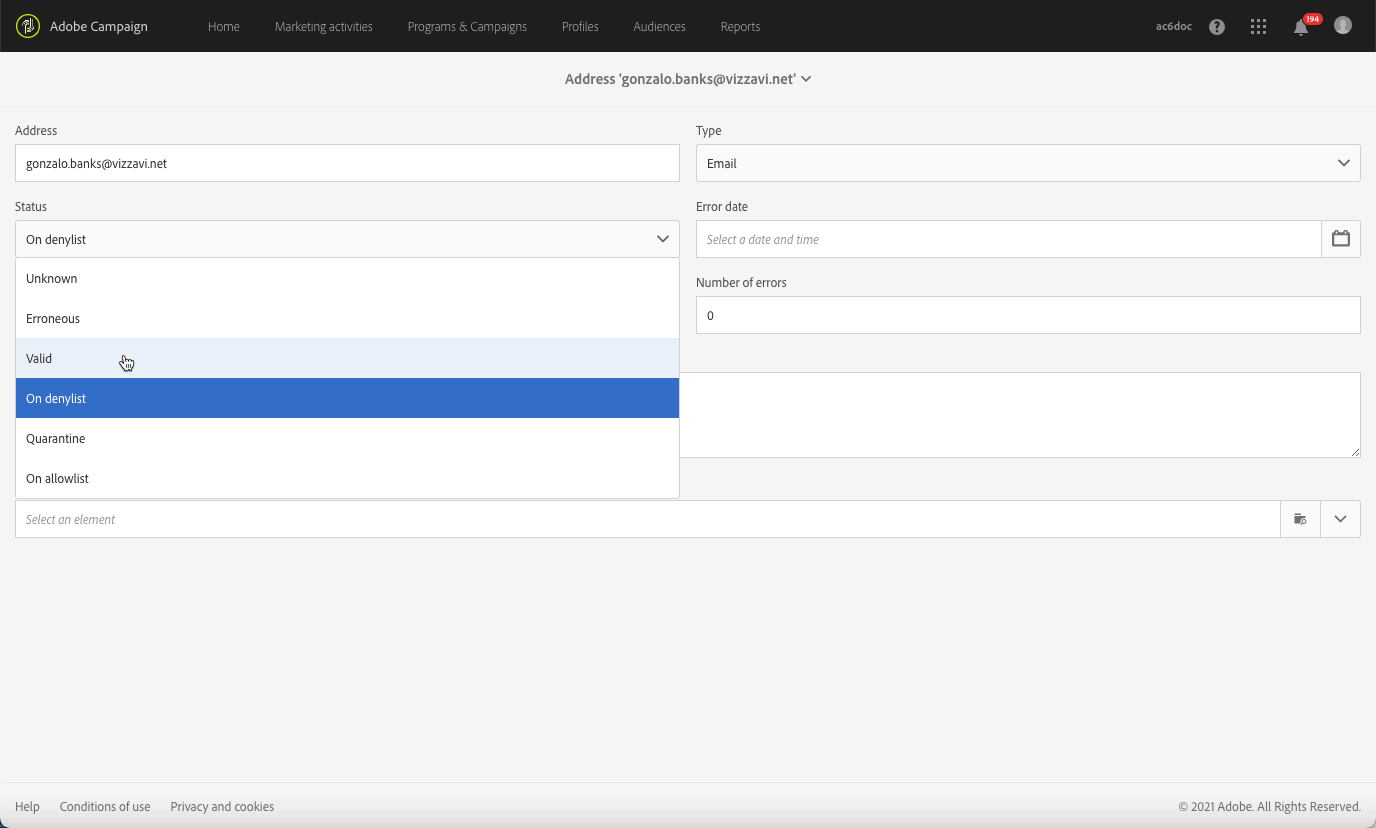
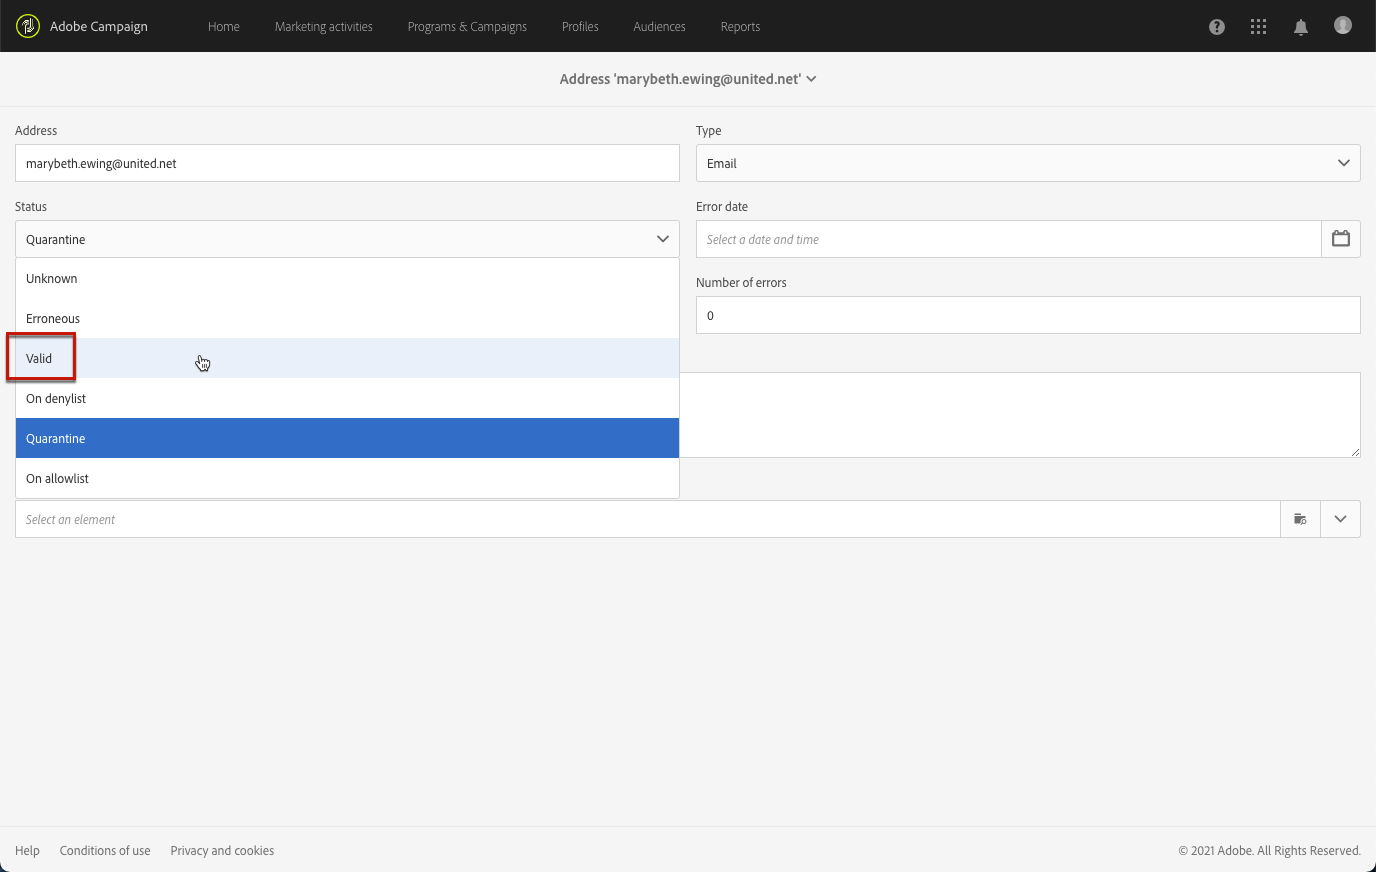
quarantine/denylist clarifications

diff --git a/help/sending/using/understanding-quarantine-management.md b/help/sending/using/understanding-quarantine-management.md
@@ -32,15 +32,17 @@ For more on best practices to secure and optimize your deliveries, refer to [thi
 
 ### Quarantine vs Denylist {#quarantine-vs-denylist}
 
-**Quarantine** applies only to an address, not the profile itself. It means that, if two profiles have the same email address, they will both be affected if the address is quarantined.
+Quarantine and denylist do not apply to the same object:
 
-Likewise, a profile whose email address is quarantined could update his profile and enter a new address, and could then be targeted by delivery actions again.
+* **Quarantine** applies only to an **address** (or phone number, etc.), not to the profile itself. For example, a profile whose email address is quarantined could update his profile and enter a new address, and could then be targeted by delivery actions again. Likewise, if two profiles happen to have the same phone number, they will both be affected if the number is quarantined.
 
-Being on the **Denylist** (resulting from a user qualifying your email as a spam), on the other hand, will result in the profile no longer being targeted by any delivery, for example after an unsubscription (opt-out). For more on the denylist process, refer to [About opt-in and opt-out in Campaign](../../audiences/using/about-opt-in-and-opt-out-in-campaign.md).
+* Being on the **denylist**, on the other hand, will result in the **profile** no longer being targeted by any delivery, for example after an unsubscription (opt-out), for a given channel. For example, if a profile on the denylist for the email channel has two email addresses, both addresses will be excluded from delivery. For more on the denylist process, refer to [About opt-in and opt-out in Campaign](../../audiences/using/about-opt-in-and-opt-out-in-campaign.md).
 
 >[!NOTE]
 >
->When a user replies to an SMS message with a keyword such as "STOP" in order to opt-out from SMS deliveries, his profile is not on denylist like in the email opt-out process. The profile phone number is sent to quarantine with the **[!UICONTROL On denylist]** status. This status refers to the phone number only, the profile is not on denylist so that the user continues receiving email messages. For more on this, refer to [this section](../../channels/using/managing-incoming-sms.md#managing-stop-sms).
+>Quarantine includes an **On denylist** status, which applies when recipients report your message as spam or reply to an SMS message with a keyword such as "STOP". In that case, the profile's involved address or phone number is sent to quarantine with the **[!UICONTROL On denylist]** status. For more on managing STOP SMS messages, refer to [this section](../../channels/using/managing-incoming-sms.md#managing-stop-sms).
+ 
+<!--When a user replies to an SMS message with a keyword such as "STOP" in order to opt-out from SMS deliveries, his profile is not added to the denylist like in the email opt-out process. Instead, the profile's phone number is sent to quarantine with the **[!UICONTROL On denylist]** status. This status refers to the phone number only, meaning that the profile will continue receiving email messages.<!-- Also, if the profile has another phone number, he can still receive SMS messages on the other number. For more on this, refer to [this section](../../channels/using/managing-incoming-sms.md#managing-stop-sms).-->
 
 ## Identifying quarantined addresses {#identifying-quarantined-addresses}
 
@@ -60,29 +62,43 @@ Quarantined addresses for a specific delivery are listed during the delivery pre
 
 ### Identifying quarantined addresses for the entire platform {#identifying-quarantined-addresses-for-the-entire-platform}
 
-Administrators can list the addresses in quarantine for the entire platform from the **[!UICONTROL Administration > Channels > Quarantines > Addresses]** menu.
+Administrators can access the detailed list of the email addresses in quarantine for the entire platform from the **[!UICONTROL Administration > Channels > Quarantines > Addresses]** menu.
 
+<!-->
 >[!NOTE]
 >
->This menu lists quarantined elements for **email**, **SMS** and **Push notification** channels.
+>This menu lists quarantined elements for **Email**, **SMS** and **Push notification** channels.
+-->
 
 ![](assets/quarantines1.png)
 
 >[!NOTE]
 >
->The increase in number of quarantines is a normal effect, related to the "wear and tear" of the database. For example, if the lifetime of an email address is considered to be three years and the recipient table increases by 50% each year, the increase in quarantines can be calculated as follows: End of Year 1: (1&#42;0.33)/(1+0.5)=22%. End of Year 2: ((1.22&#42;0.33)+0.33)/(1.5+0.75)=32.5%.
+>The increase in the number of quarantines is a normal effect, related to the "wear and tear" of the database. For example, if the lifetime of an email address is considered to be three years and the recipient table increases by 50% each year, the increase in quarantines can be calculated as follows: End of Year 1: (1&#42;0.33)/(1+0.5)=22%. End of Year 2: ((1.22&#42;0.33)+0.33)/(1.5+0.75)=32.5%.
+
+Filters are available to help you browse through the list. You can filter on the address, status and channel.
+
+You can edit or [delete](#removing-a-quarantined-address) each address, as well as create new ones.
 
 ### Removing a quarantined address {#removing-a-quarantined-address}
 
 If needed, you can manually remove an address from the quarantine list. In addition to this, addresses that match specific conditions are automatically deleted from the quarantine list by the **[!UICONTROL Database cleanup]** workflow. For more on the technical workflows, see [this section](../../administration/using/technical-workflows.md#list-of-technical-workflows).
 
-To manually remove an address from the quarantine list:
+To manually remove an address from the quarantine list, perform one of the actions below.
 
-* Select the address from the **[!UICONTROL Administration > Channels > Quarantines > Addresses]** menu and change its **[!UICONTROL Status]** to **[!UICONTROL Valid]**.
+>[!IMPORTANT]
+>
+>Manually deleting an email address from quarantine means that you will start again delivering to this address. Consequently, this can have severe impacts on your deliverability and IP reputation, which could eventually lead to your IP address or sending domain being blocked. Proceed with extra care when considering removing any address from quarantine. In case of any doubt, contact a deliverability expert.
+
+* Select the address from the **[!UICONTROL Administration > Channels > Quarantines > Addresses]** list and select **[!UICONTROL Delete element]**.
+
+  ![](assets/quarantine-delete-address.png)
+
+* Select an address and change its **[!UICONTROL Status]** to **[!UICONTROL Valid]**.
 
   ![](assets/quarantine-valid-status.png)
 
-* You can also change its status to **[!UICONTROL On allowlist]**. In this case, the address remains on the quarantine list, but it will be systematically targeted, even if an error is encountered.
+  You can also change its status to **[!UICONTROL On allowlist]**. In this case, the address remains on the quarantine list, but it will be systematically targeted, even if an error is encountered.
 
 The addresses are automatically removed from the quarantine list in the following cases:
 
@@ -94,9 +110,9 @@ Their status then changes to **[!UICONTROL Valid]**.
 
 >[!IMPORTANT]
 >
->Recipients with an address in a **[!UICONTROL Quarantine]** or **[!UICONTROL On denylist]** status will never be removed, even if they receive an email.
+>Recipients with an address in a **[!UICONTROL Quarantine]** or **[!UICONTROL On denylist]** status will never be removed automatically, even if they receive an email.
 
-You can modify the number of errors and the period between two errors. To do this, change the corresponding settings in xxx.
+The maximum number of retries to be performed in case of **[!UICONTROL Erroneous]** status and the minimum delay between retries are now based on how well an IP is performing both historically and currently at a given domain.
 
 ## Conditions for sending an address to quarantine {#conditions-for-sending-an-address-to-quarantine}
 

diff --git a/help/audiences/using/about-opt-in-and-opt-out-in-campaign.md b/help/audiences/using/about-opt-in-and-opt-out-in-campaign.md
@@ -24,6 +24,6 @@ Opt-out profiles are automatically excluded during the delivery analysis in orde
 
 >[!NOTE]
 >
->Opt-out applies to **Profiles**, as opposed to quarantine which is linked to an **email address** or **phone number**. Opting out a profile will therefore exclude from deliveries all the addresses linked to it. If a user has two profiles in the database, he will still be targeted by deliveries as only one of his profiles is opt-out. To make sure all his adresses are excluded, add them to the quarantines addresses. For more on this, refer to [this page](../../sending/using/understanding-quarantine-management.md#identifying-quarantined-addresses-for-the-entire-platform).
+>Opt-out applies to **Profiles**, as opposed to quarantine which is linked to an **email address** or **phone number**. Opting out a profile will therefore exclude from deliveries all the addresses linked to it. However, if a user has two profiles in the database, he will still be targeted by deliveries as only one of his profiles is opted out. To make sure all his adresses are excluded, add them to the quarantined addresses. For more on this, refer to [this page](../../sending/using/understanding-quarantine-management.md#identifying-quarantined-addresses-for-the-entire-platform).
 
 For more on services subscriptions, refer to [this page](../../audiences/using/about-subscriptions.md).

diff --git a/help/sending/using/understanding-delivery-failures.md b/help/sending/using/understanding-delivery-failures.md
@@ -77,7 +77,7 @@ The possible reasons for a delivery failure are:
 
 ## Retries after a delivery temporary failure {#retries-after-a-delivery-temporary-failure}
 
-If a message fails due to a temporary error of the **Ignored** type, retries will be performed during the delivery duration. For more on the types of errors, see [Delivery failure types and reasons](#delivery-failure-types-and-reasons).
+If a message fails due to a temporary error, retries will be performed during the delivery duration. For more on the types of errors, see [Delivery failure types and reasons](#delivery-failure-types-and-reasons).
 
 The number of retries (how many retries should be performed the day after the send is started) and the minimum delay between retries are now<!--managed by the Adobe Campaign Enhanced MTA,--> based on how well an IP is performing both historically and currently at a given domain. The **Retries** settings in Campaign are ignored.
 
